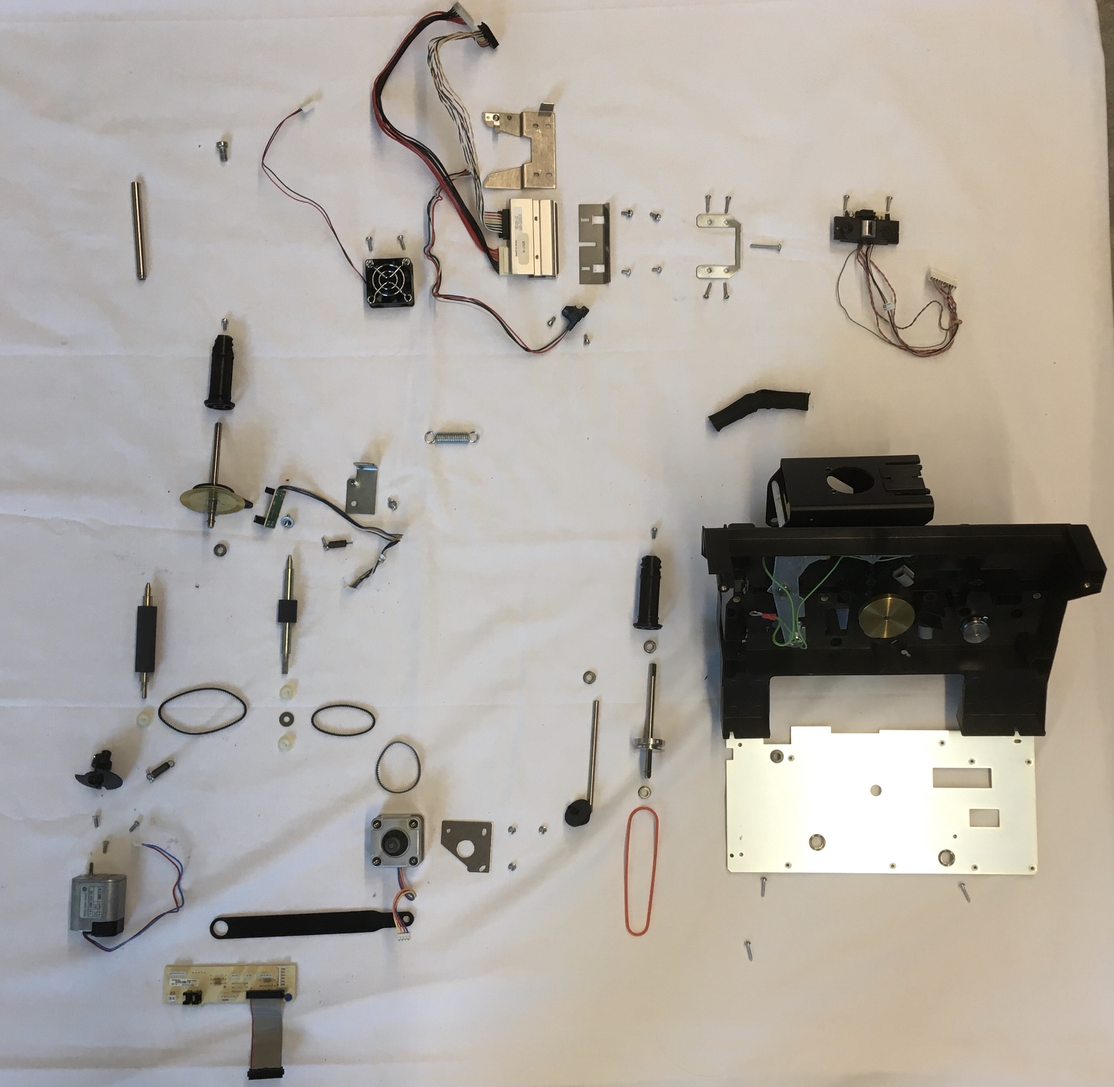
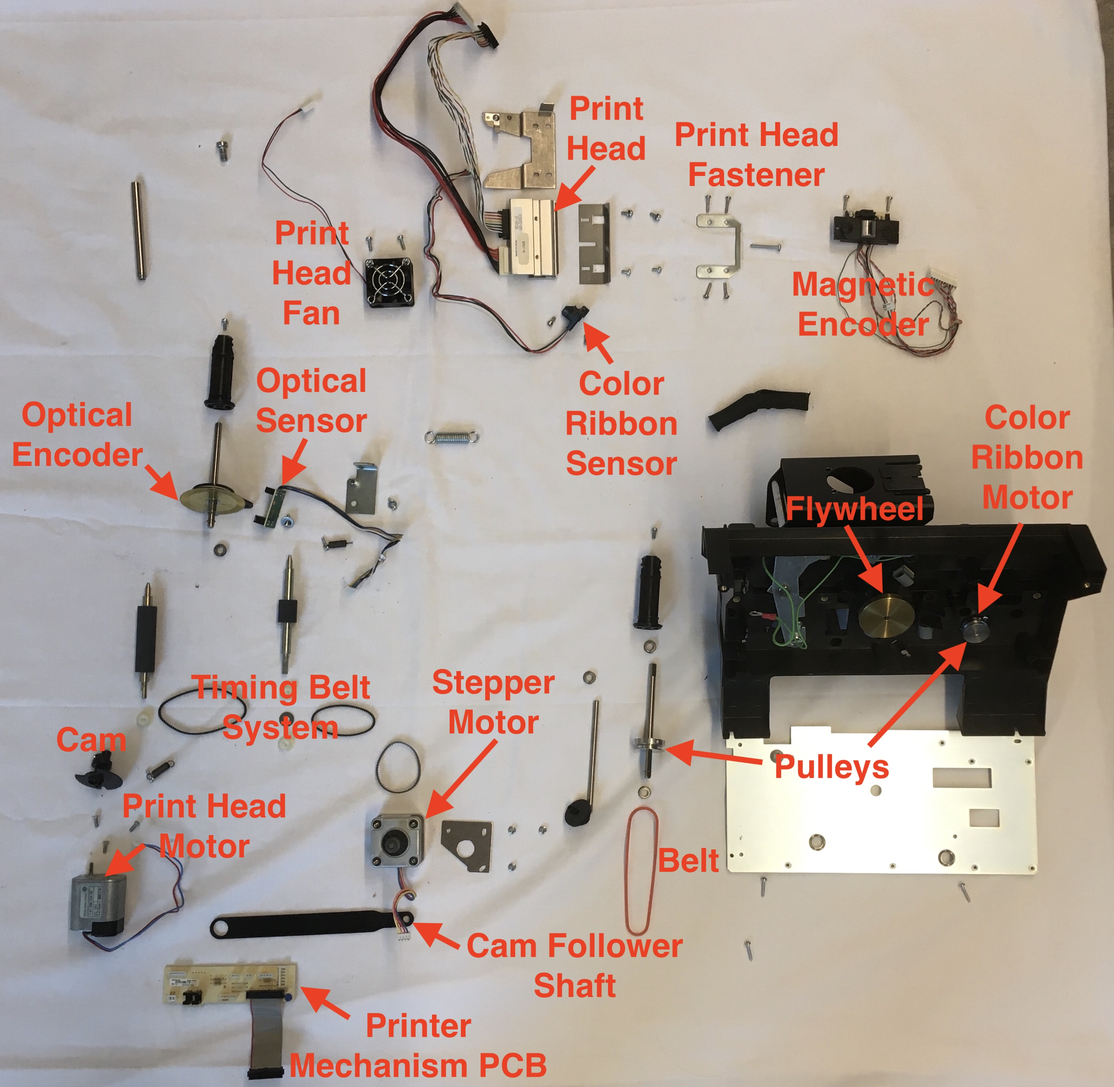
added some about mechanism

diff --git a/teardowns/IDprinter.html b/teardowns/IDprinter.html
@@ -339,12 +339,16 @@
 	<img src="../images/teardowns/IDprinter/mechanismExploded.jpg" alt="Roller Driving System and Heating Element System Components Disassembled from Body Back Half" class="center">
 	<p class="label">Printer Mechanism Exploded View</p>
 	<h4>Introduction</h4>
-	<p>&emsp;&emsp;</p>
+	<p>&emsp;&emsp;The back half of the printer body contained the devices used in the primary operation of the printer&mdash;print head and magnetic encoder&mdash;and the mechanical assembly to drive those operations. From a mechanical perspective, this was the most exciting piece of the printer. A system of many shafts connected together by a timing belt were driven by a flywheel and stepper motor to drive the ID card through the printer. A belt and pulley system driven by a separate geared DC motor controls the rolling up of the used color ribbon as the print head moved through each layer of color. Yet another geared DC motor drives a cam to rotate the print head up during card travel and down during printing.</p>
+	<p>&emsp;&emsp;In order for the onboard microcontroller to keep track of all these processes to ensure they are executed at appropriate time intervals a number of optical sensors exist across the mechanical assembly. All these sensors are beam interrupt type optical sensors like that used to detect the card first entering the printer. In total, three of these sensors are used to track whether the print head is up or down, whether the print head is latched or unlatched, and how far the color ribbon has unwound.</p>
+	<br>
 	<h4>Printer Mechanism PCB</h4>
+	<p>&emsp;&emsp;The printer mechanism daughter board is a simple PCB with no onboard intelligence. Its function is instead to provide connection points for the many sensors and motors in the mechanical assembly so that information can then be sent back and forth through a compact ribbon cable. As a clear statement of its simplicity, this board is one side (i.e. copper traces are only drawn on the bottom). One sided boards are easier to manufacture, but they can be difficult for the board designer as space to draw traces is more limited. On a board with many components such as this, it is almost unavoidable that some of the traces will have to cross. Instead of using vias though, the designers of this PCB using little jumper wires and resistors in several locations to connect traces across the board. All of the sensor and motor connectors use a JST-type style with an asymmetric shape that only permits the opposing female ends to be inserted in one orientation. This ensures that the sensors and motors are not installed correctly during assembly of the printer.</p>
 	<img src="../images/teardowns/IDprinter/mechanismPCBfront.jpg" alt="Connection Points for Motor, Sensors, and Control Signals" class="center">
 	<p class="label">Printer Mechanism PCB - Top View</p>
 	<img src="../images/teardowns/IDprinter/mechanismPCBback.jpg" alt="Simple Green PCB Backing with THT Soldering and Traces" class="center">
 	<p class="label">Printer Mechanism PCB - Bottom View</p>
+	<br>
 	<h4>Optical Encoder</h4>
 	<img src="../images/teardowns/IDprinter/opticalEncoder.jpg" alt="Gold Slotted Circular Plate with Attached Light Sensor" class="center">
 	<p class="label">Closeup of Optical Encoder Mechanism</p>
@@ -358,6 +362,7 @@
 	</div>
 	<img src="../images/teardowns/IDprinter/opticalSensor.jpg" alt="Small PCB with Light Sensors and Wires Leading Offboard" class="center">
 	<p class="label">Optical Encoder Light Sensor</p>
+	<br>
 	<h4>Magnetic Encoder</h4>
 	<img src="../images/teardowns/IDprinter/magneticEncoder.jpg" alt="Metal Sensor Mounted After Roller Exiting Heating Element" class="center">
 	<p class="label">Magnetic Encoder Mounted in Body</p>
@@ -370,6 +375,7 @@
 		<p class="label">Magnetic Encoder - Bottom View</p>
 	</div>
 	<p>&emps;&emps;The magnetic encoder unit contains a read/write head and there must be a nearby or included card sensor. The encoder reads after writing to assure a reliable result. Encoding occurs on all 3 tracks as the card passes over the encoder unit.</p>
+	<br>
 	<h4>Print Head</h4>
 	<img src="../images/teardowns/IDprinter/heatingElement.jpg" alt="Metal Plate Piece with Many Wires Leading In and Labelled 'R-1525'" class="center">
 	<p class="label">Print Head</p>
@@ -389,6 +395,7 @@
 	<p class="label">DC Motor for Roller Rotation</p>
 	<video controls="controls" name="Testing Print Head Unlock Lever" src="../images/teardowns/IDprinter/armAction.mp4" class="center"></video>
 	<p class="label">Testing Print Head Unlock Lever</p>
+	<br>
 	<h4>Conclusion</h4>
 	<img src="../images/teardowns/IDprinter/unremovablePieces.jpg" alt="Several Shaft Mounted Disks and Metal Lever Arm Remaining Inside Body" class="center">
 	<p class="label">Unremovable Pieces from Printer Mechanism</p>
